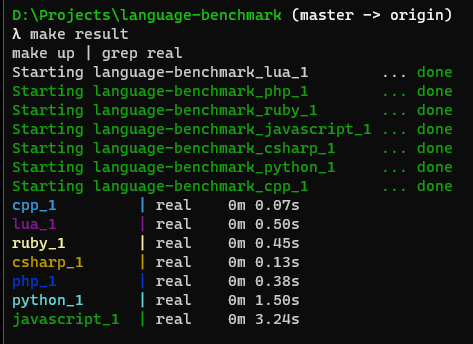
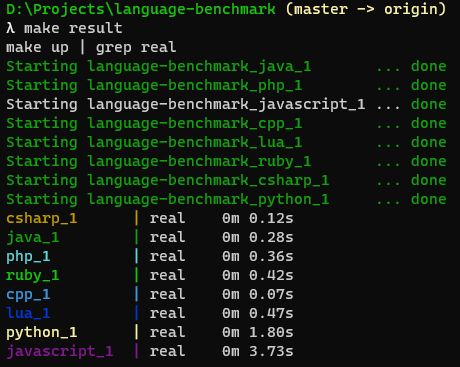
Added java

diff --git a/java/Program.java b/java/Program.java
@@ -1,0 +1,15 @@
+import java.util.*;
+
+public class Program {
+    public static void main(String[] args) {
+        var n = Integer.parseInt(args[0]);
+        var array = new int[n];
+
+        var randomGen = new Random();
+        for (int i = 0; i < n; i++) {
+            array[i] = randomGen.nextInt(n);
+        }
+
+        Arrays.sort(array);
+    }
+}

diff --git a/README.md b/README.md
@@ -7,7 +7,7 @@ This is pretty much to keep track on languages progress when it comes to perform
 
 Make sure you have `make` and `docker-compose` installed.
 
-Most languages will use the newest availalbe docker image (which means, newest language version), with the exception of `.net`, because microsoft cannot create container tags for `alpine` that are generic enough....
+Most languages will use the newest availalbe docker image (which means, newest language version), with the exception of `.net` and `java`, since the oficial maintaners don't supply a generic, non-version-specific alpine-based docker image.
 
 Just type:
 
